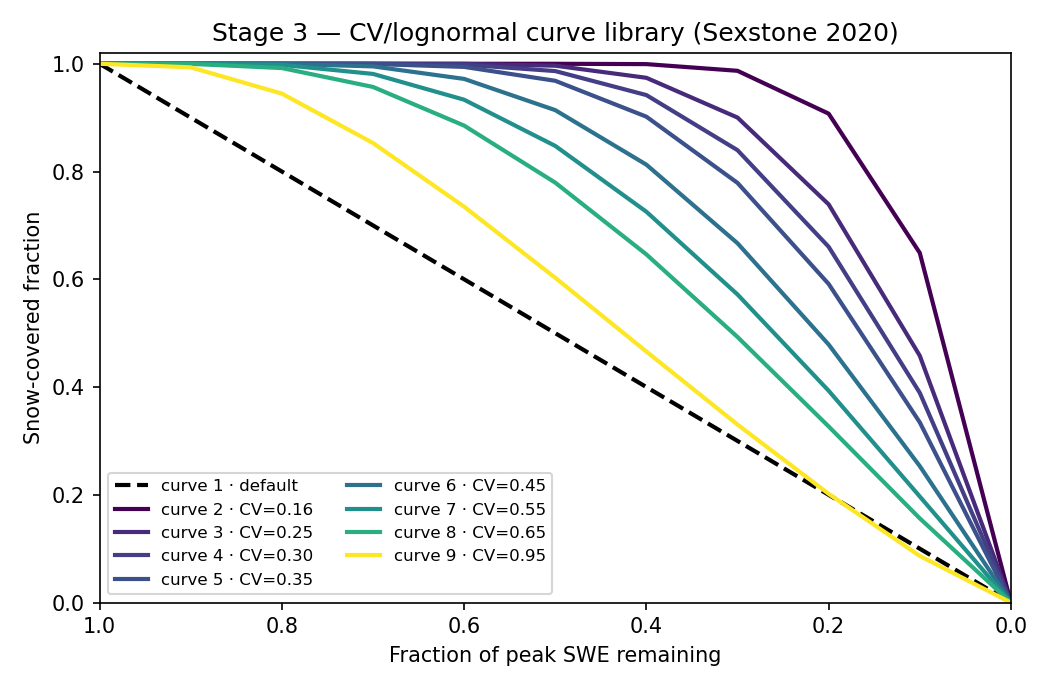
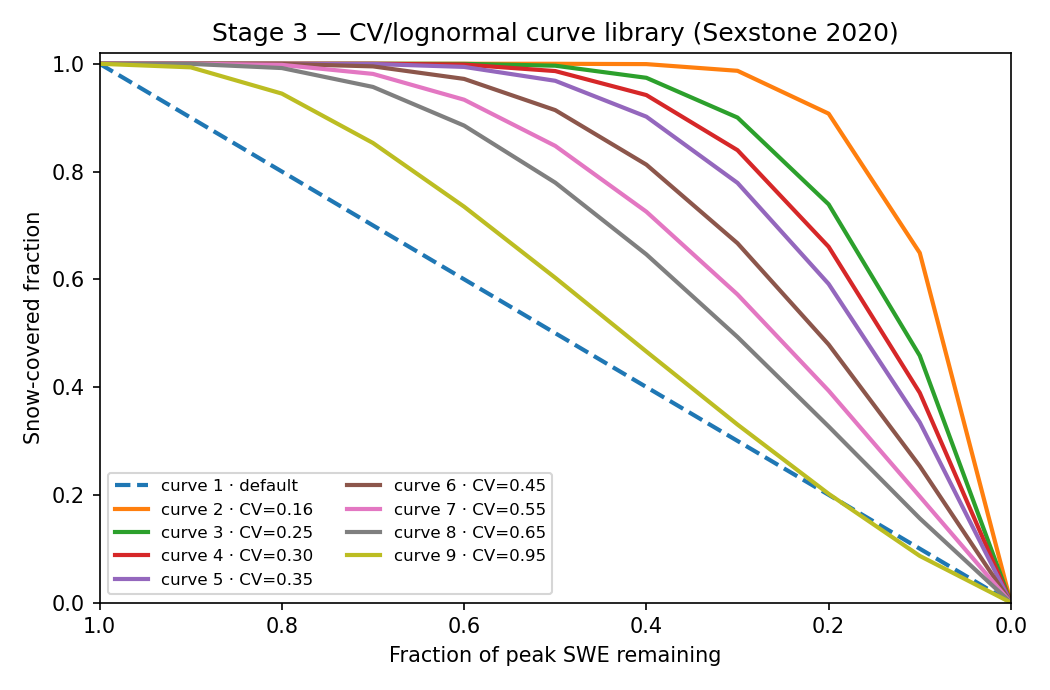
docs(figures): share one curve-number palette across cv_family and deplcrv map
Add curve_color() (tab10 keyed by curve number) used by both figures so curve N
is the same color in the CV family and the hru_deplcrv map. The map now builds an
explicit ListedColormap over the present categories (deterministic) instead of
letting geopandas sample the 'tab10' string continuously.

diff --git a/scripts/render_snarea_figures.py b/scripts/render_snarea_figures.py
@@ -98,6 +98,15 @@ def schematic_pipeline(out_path: Path) -> None:
 _SNAREA_STEP_CONFIG = "configs/snarea/snarea_curve.yml"
 _BASE_CONFIG = "configs/base_config.yml"
 
+#: Shared discrete palette so a curve number is the SAME color in the CV-family
+#: plot and the hru_deplcrv map. Curve N -> tab10 color N-1 (curve ids start at 1).
+_TAB10 = matplotlib.colormaps["tab10"].colors
+
+
+def curve_color(deplcrv_id: int):
+    """Fixed color for a library curve number, shared across figures."""
+    return _TAB10[(int(deplcrv_id) - 1) % len(_TAB10)]
+
 
 def resolve_paths(fabric: str) -> dict:
     """Resolve fabric-specific input paths via the base_config profile."""
@@ -239,19 +248,27 @@ def fig_multiyear_median(paths: dict, hru_id: int, out_path: Path) -> None:
 
 
 def fig_cv_family(paths: dict, out_path: Path) -> None:
-    """The library's curves colored by CV — higher CV melts out more gradually."""
+    """The library's curves, colored by curve number (shared with the deplcrv map).
+
+    Curves fan from low CV (holds full cover, then drops fast) to high CV (bare
+    patches appear early, gradual decline). The reserved default is dashed.
+    """
     lib = pd.read_csv(paths["library_csv"]).sort_values("deplcrv_id")
-    bins = lib[lib["curve_kind"] == "cv_bin"]
-    cmap = plt.get_cmap("viridis")
-    cvmin, cvmax = bins["cv"].min(), bins["cv"].max()
     fig, ax = plt.subplots(figsize=(7, 4.6))
     for _, r in lib.iterrows():
         curve = r[CURVE_COLS].to_numpy(float)
         cid = int(r["deplcrv_id"])
+        color = curve_color(cid)
         if r["curve_kind"] == "default":
-            ax.plot(season.SWE_LEVELS, curve, "k--", lw=2, label=f"curve {cid} · default")
+            ax.plot(
+                season.SWE_LEVELS,
+                curve,
+                color=color,
+                ls="--",
+                lw=2,
+                label=f"curve {cid} · default",
+            )
         else:
-            color = cmap((r["cv"] - cvmin) / (cvmax - cvmin + 1e-9))
             ax.plot(
                 season.SWE_LEVELS,
                 curve,
@@ -331,17 +348,23 @@ def fig_coverage(paths: dict, out_path: Path) -> None:
 def fig_deplcrv_map(paths: dict, out_path: Path) -> None:
     """Map each HRU colored by its assigned library-curve index (hru_deplcrv)."""
     import geopandas as gpd
+    from matplotlib.colors import ListedColormap
 
     idc = paths["id_feature"]
     gdf = gpd.read_file(paths["hru_gpkg"], layer=paths["hru_layer"])
     params = pd.read_csv(paths["params_csv"])[[idc, "hru_deplcrv"]]
     merged = gdf.merge(params, on=idc, how="left")
+    # geopandas maps categories in sorted order to the colormap's entries; build
+    # an explicit ListedColormap keyed by curve number so each curve is the same
+    # color here as in fig_cv_family.
+    cats = sorted(int(v) for v in merged["hru_deplcrv"].dropna().unique())
+    cmap = ListedColormap([curve_color(c) for c in cats])
     fig, ax = plt.subplots(figsize=(11, 7))
     merged.plot(
         column="hru_deplcrv",
         categorical=True,
         legend=True,
-        cmap="tab10",
+        cmap=cmap,
         linewidth=0,
         ax=ax,
         legend_kwds={"title": "curve #", "fontsize": 8, "loc": "lower left"},